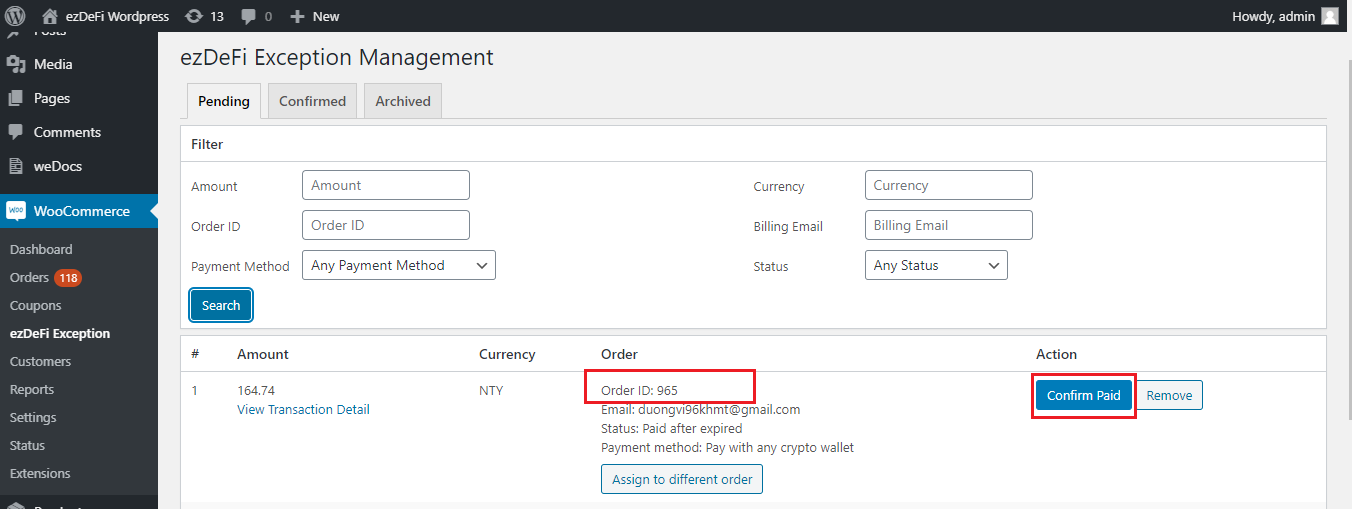
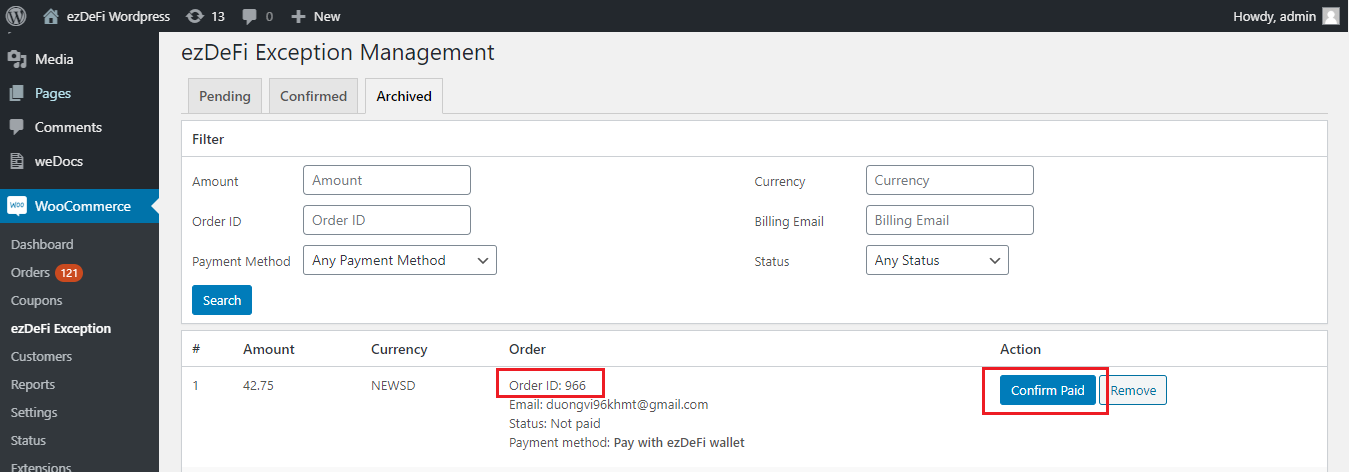
Edit typo in woo img

diff --git a/docs/Integrations/5.woocommerce.md b/docs/Integrations/5.woocommerce.md
@@ -68,7 +68,7 @@ You have successfully integrated ezDeFi into your business.
 
 Exception management helps the merchant to handle order issues and other related problems.
 
-In Wordpress interface, go to Dashboard -> Downloads -> Exception management -> ezDeFi Exception.
+In Wordpress interface, go to **Dashboard** -> **WooCommerce** -> **ezDeFi Exception**
 
 In version 2.0, ezDeFi updated the exception management settings. Exception management is divided into: **Pending**, **Confirmed**, **Archived**.
 
@@ -78,7 +78,7 @@ In the Pending tab, paid orders are saved under status *Paid on time*, *Paid aft
 
 * Confirm order: Select the Order you want to confirm, then **Confirm paid**
 
-![Confirm Paid](../../img/edd-exception.png "Confirm Paid")
+![Confirm Paid](../../img/woo-exception.png "Confirm Paid")
 After confirmed, order 1153 will be transfered to **Confirmed** tab
 
 * Assign order: When customers generate identical QR Code, and you need to assign the right order to the paid customer, click on **Assign to different order** -> enter orderID -> **Confirm paid**
